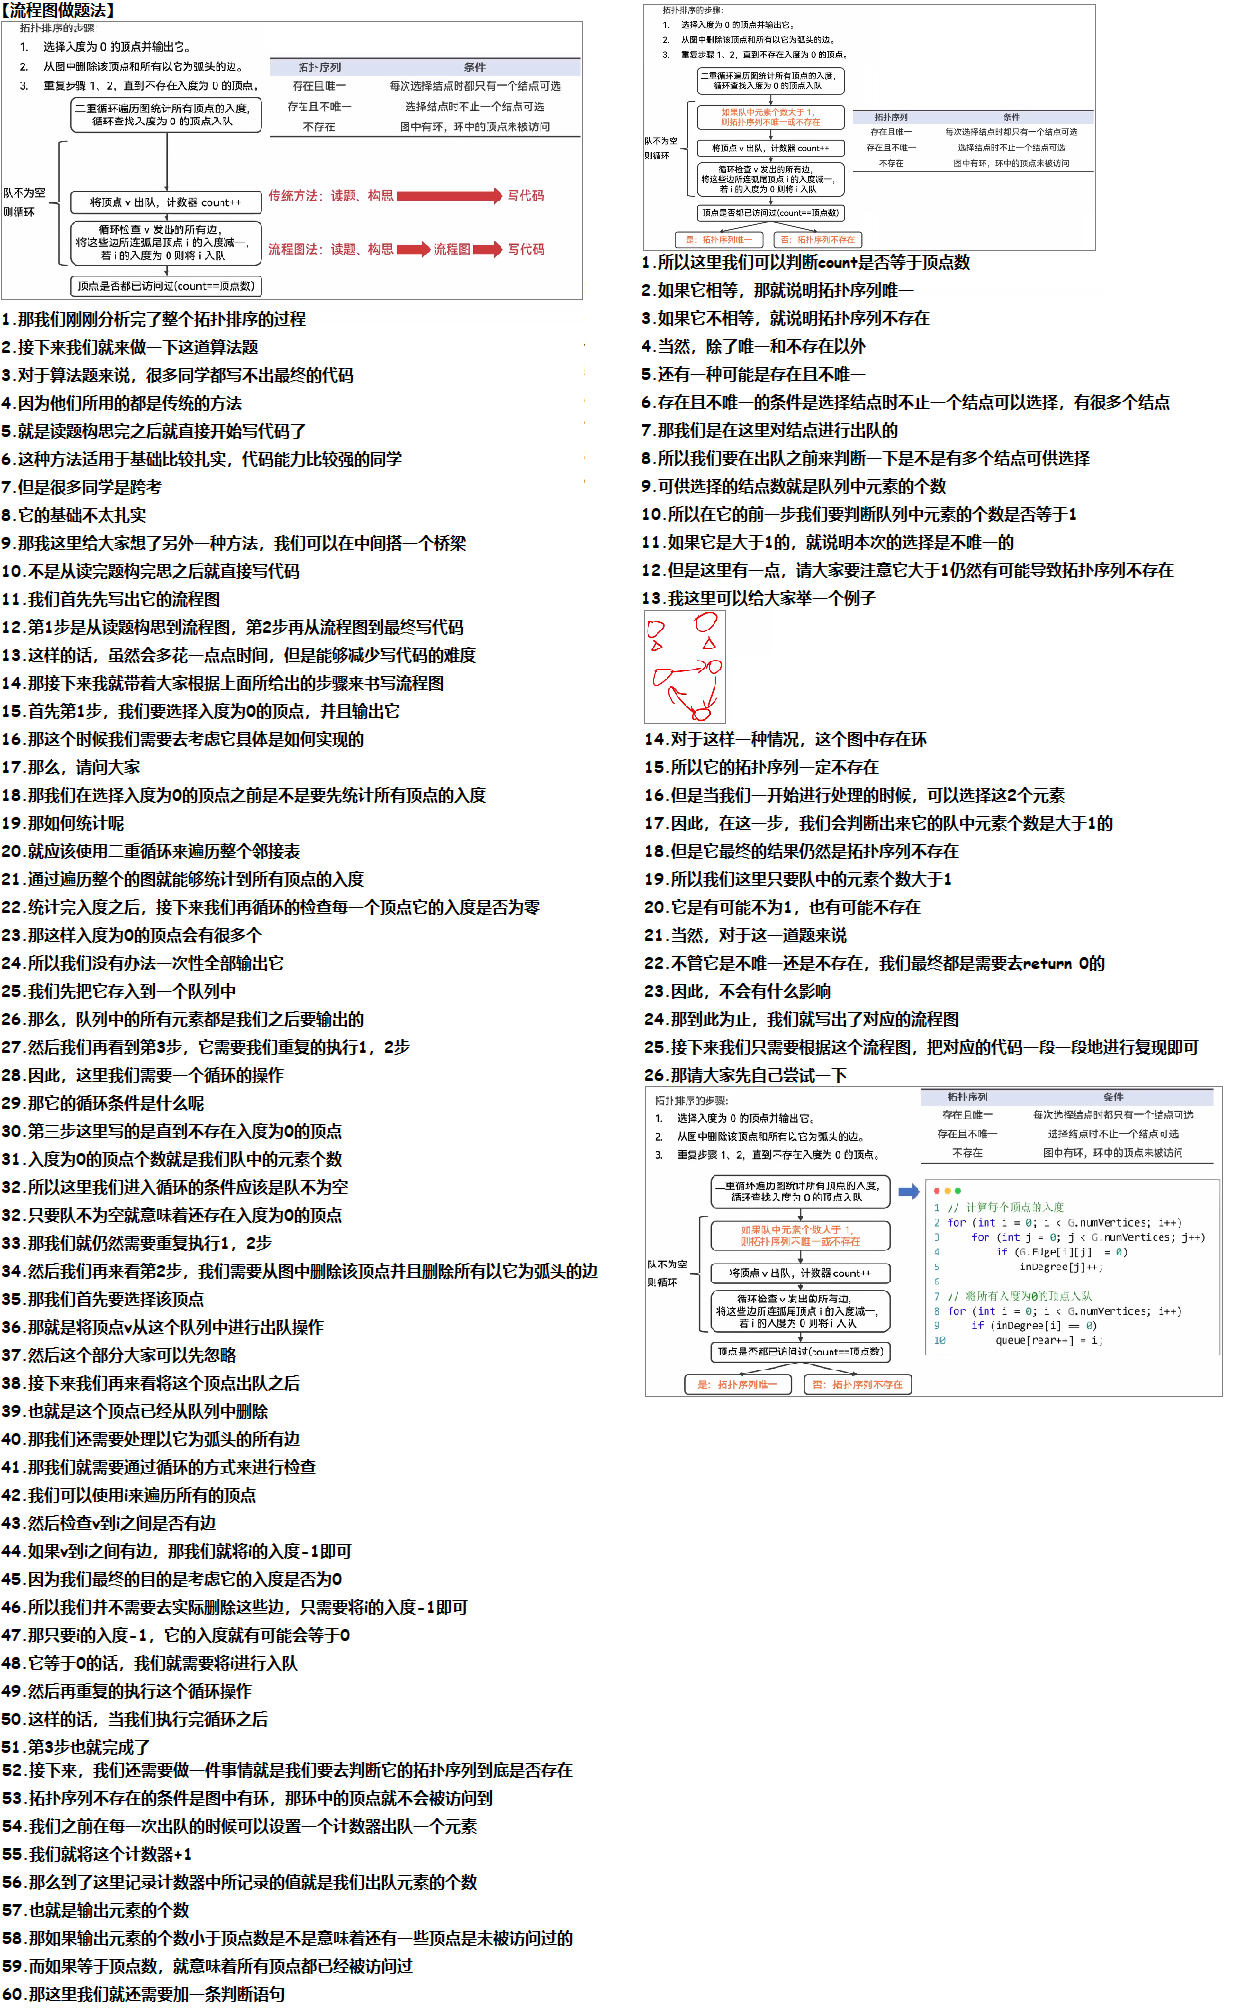
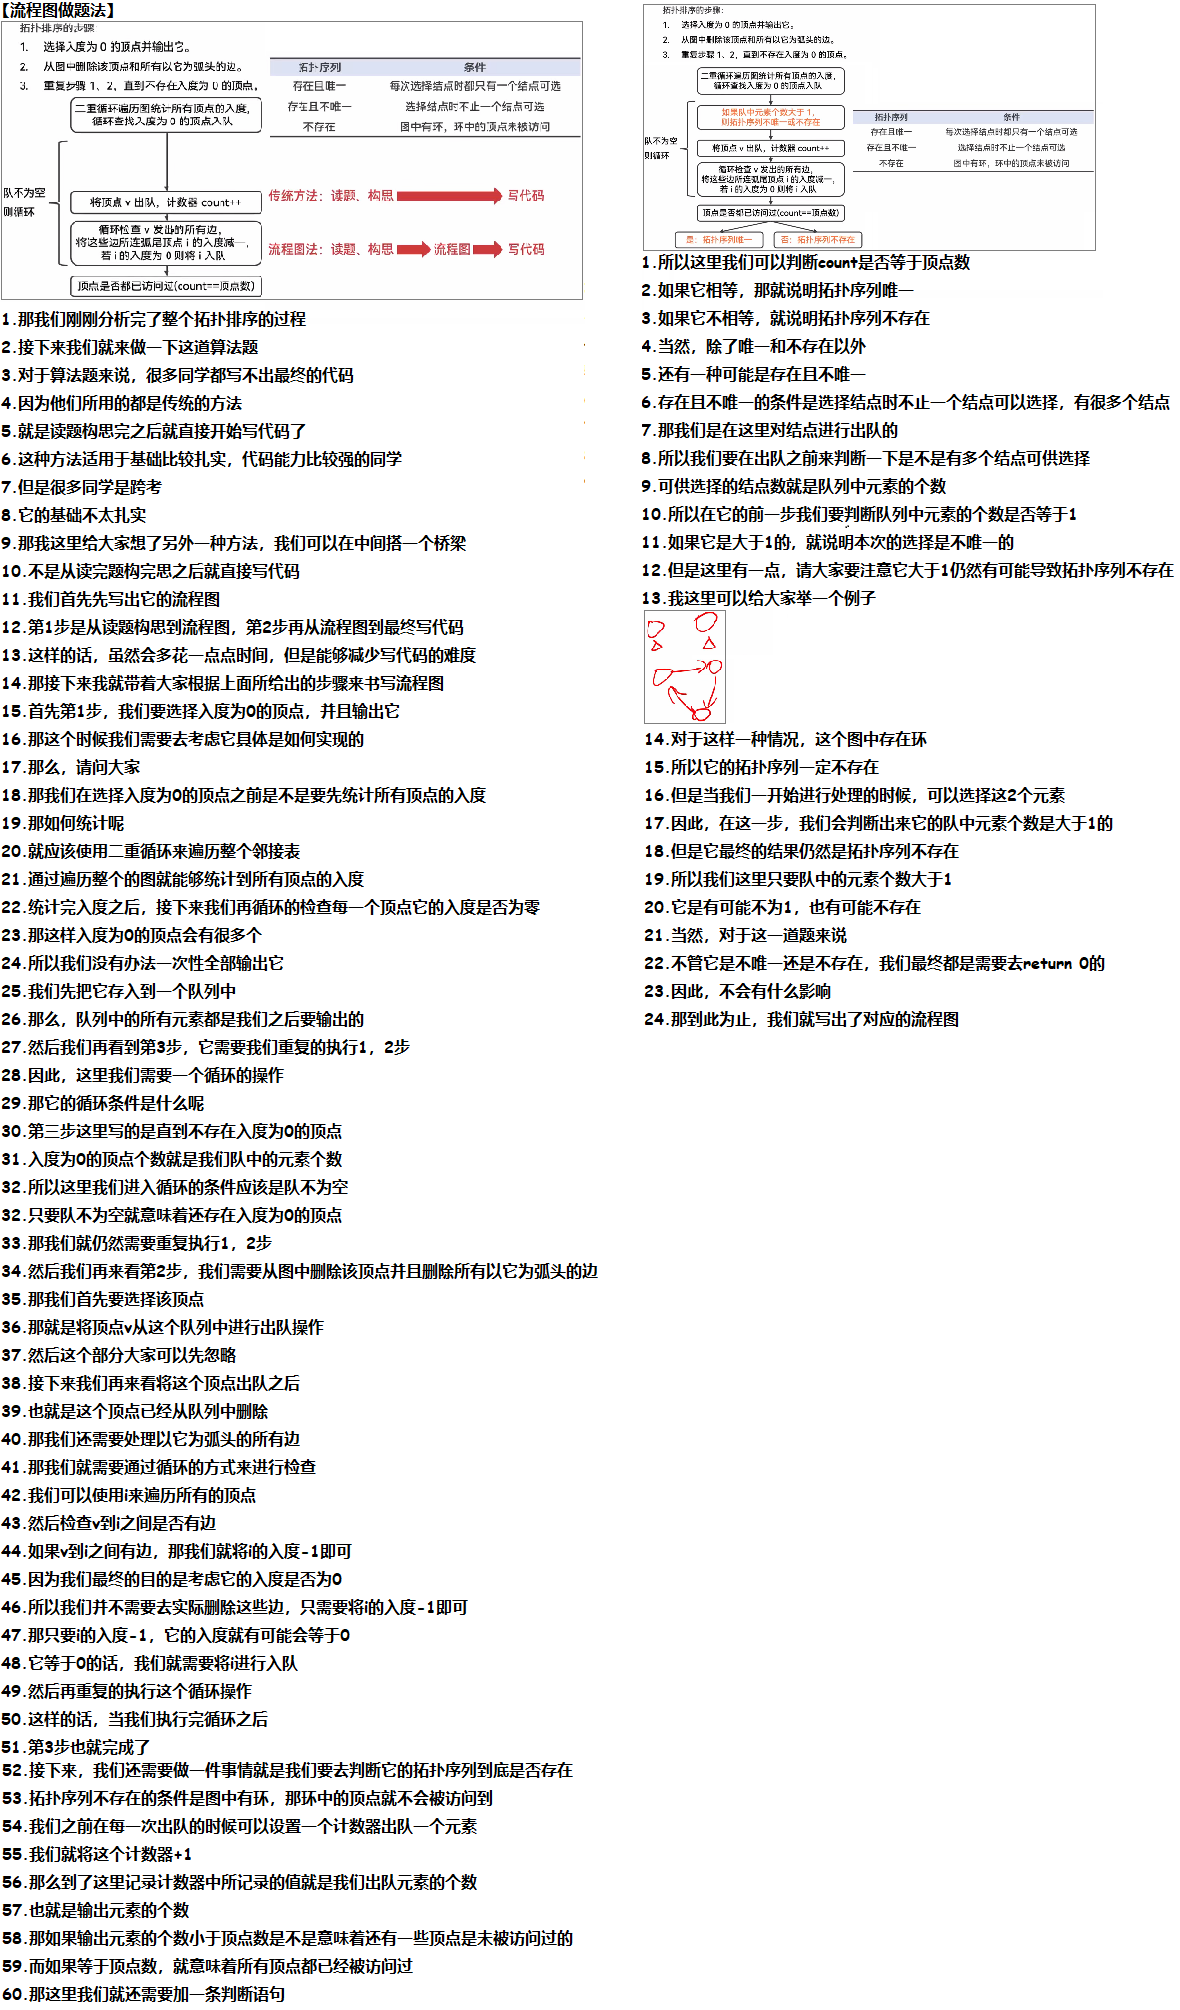
250914 D96

Changed region(s): [[0.0, 0.0, 0.9763, 1.0], [0.9763, 0.5861, 1.0, 0.6478]]

diff --git a/01 初试/01 408真题/01 24408 67‘ = 30‘+37’/02 综合应用题 37’ = 13’+ 15‘ + 9‘/01 数据结构 13‘/01 24T41 13’ 拓扑排序/01 视频/02 Doc.md b/01 初试/01 408真题/01 24408 67‘ = 30‘+37’/02 综合应用题 37’ = 13’+ 15‘ + 9‘/01 数据结构 13‘/01 24T41 13’ 拓扑排序/01 视频/02 Doc.md
@@ -18,4 +18,22 @@
 
 # 04 流程图做题法
 
-<img src="https://cvp.oss-cn-shanghai.aliyuncs.com/202509140846008.png" alt="image-20250914084628868" style="zoom:50%;" />
+<img src="https://cvp.oss-cn-shanghai.aliyuncs.com/202509141110299.png" alt="image-20250914111001150" style="zoom:50%;" />
+
+
+
+# 05 答案详解1
+
+<img src="https://cvp.oss-cn-shanghai.aliyuncs.com/202509141202926.png" alt="image-20250914120227666" style="zoom:50%;" />0
+
+
+
+# 06 答案详解2
+
+<img src="https://cvp.oss-cn-shanghai.aliyuncs.com/202509141220105.png" alt="image-20250914122008980" style="zoom:50%;" />
+
+
+
+# 07 改编：邻接表表示
+
+<img src="https://cvp.oss-cn-shanghai.aliyuncs.com/202509141402369.png" alt="image-20250914140254247" style="zoom:50%;" />
